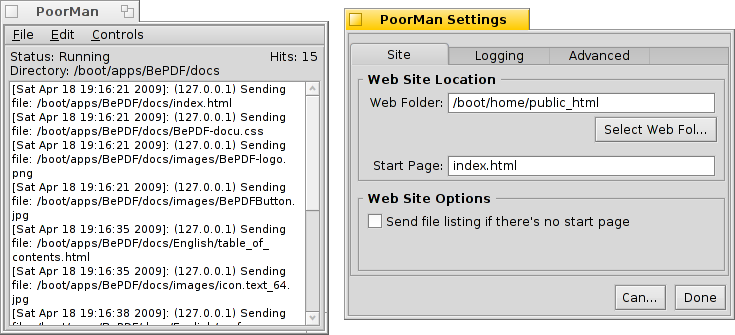
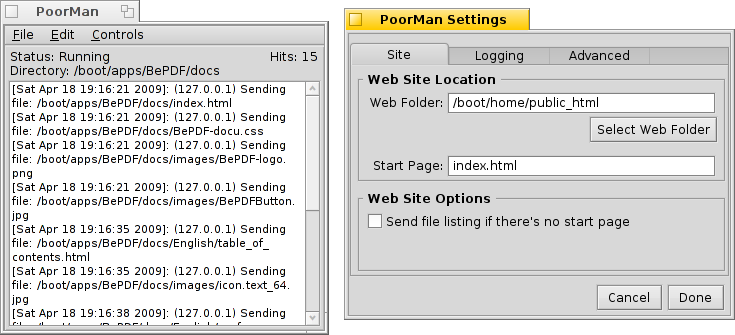
* Updated poorman screenshot with un-trunkated button.  * Small addition to DriveSetup.
+alphabranch

git-svn-id: file:///srv/svn/repos/haiku/haiku/trunk@32950 a95241bf-73f2-0310-859d-f6bbb57e9c96

diff --git a/docs/userguide/en/applications/drivesetup.html b/docs/userguide/en/applications/drivesetup.html
@@ -46,19 +46,23 @@ width="64" height="64" />DriveSetup</h1>
 <p><br/></p>
 <p>DriveSetup is a tool to create, delete and initialize partitions. At this time it can't resize or move existing partitions, so that you'll either need an unpartitioned volume (perhaps an external USB drive or another harddisk) or do the initial setup with a tool like the <a href="http://gparted.sourceforge.net/livecd.php">GParted LiveCD</a> to provide the space for another partition.</p>
 <img src="../images/apps-images/drivesetup.png" alt="drivesetup.png" />
-<p>At the top is a graphical representation of all partitions inside the device chosen in the list below it. Besides a maximum of 4 primary partitions, each of those can contain a number of extended/logical partitions. You may have to expand such a list with the +/- widget that appears in that case in front of the device to see the details of every logical partition.</p>
+<p>At the top is a graphical representation of all partitions inside the device chosen in the list below it. Besides a maximum of 4 primary partitions, each of those can contain a number of extended/logical partitions. You may have to expand such a list with the +/- widget that appears in that case in front of that device to see the details of every logical partition.</p>
 <p>You can select a partition from the list and mount and unmount them with the commands in the <span class="menu">Partition</span> menu or by pressing <span class="key">ALT</span>&#160;<span class="key">M</span> or <span class="key">ALT</span>&#160;<span class="key">U</span>.</p>
 <p>You can also completely delete a partition with <span class="menu">Partition|Delete</span>.<br />
 Which brings us to this:</p>
-<div class="box-stop">Dealing with creating, deleting or initializing partitions is very dangerous business. Always check twice to be sure you're working with the right one and always keep an up-to-date backup of your data in case something goes wrong!</div>
+<div class="box-stop">Dealing with creating/deleting/initializing partitions is very dangerous business. Always check twice to be sure you're working with the right one and always keep an up-to-date backup of your data in case something goes wrong!</div>
 <h1>
-<a href="#logo"><img src="../../images/up.png" align="right" alt="index" border="0" class="noprint" /></a>Creating a new partition</h1>
+<a href="#logo"><img src="../../images/up.png" align="right" alt="index" border="0" class="noprint" /></a>
+<a id="creating" name="creating">Creating a new partition</a></h1>
+<div class="box-info">If you plan to use the entire drive as one partition, e.g. a USB stick or a Compact Flash card, you can skip the creation of a partition and proceed right to <a href="#initializing">Initializing</a>.</div>
 <p>When you found unformatted space on a drive, like the above <tt>&lt;empty&gt;</tt>, you can create a new partition in this space with <span class="menu">Partition|Create...</span>(<span class="key">ALT</span>&#160;<span class="key">C</span>).</p>
 <img src="../images/apps-images/drivesetup-create.png" alt="drivesetup-create.png" />
 <p>You're prompted with this dialog that lets you adjust the partition size and type. Choose <span class="menu">Be File System</span> if you want to use the partition for an Haiku installation or if you want to use all the interesting Haiku features with it, like attributes and queries. Note, that other operating systems might not be able to access such a partition.</p>
+<p>If you have created a primary partition instead of just another extended/logical partition within one, the above dialog also displays an <span class="menu">Active Partition</span> checkbox. You'll have to check that, if you'll use that partition to boot a Haiku installation.</p>
 <p>Before you can use, or even mount the newly created partition, it has to be initialized with a filesystem.</p>
 <h1>
-<a href="#logo"><img src="../../images/up.png" align="right" alt="index" border="0" class="noprint" /></a>Initializing a partition</h1>
+<a href="#logo"><img src="../../images/up.png" align="right" alt="index" border="0" class="noprint" /></a>
+<a id="initializing" name="initializing">Initializing a partition</a></h1>
 <p>Only unmounted partitions can be initialized by using the <span class="menu">Partition|Initialize</span> menu.</p>
 <img src="../images/apps-images/drivesetup-initialize.png" alt="drivesetup-initialize.png" />
 <p>Here you set the name for the partition and it's blocksize. 2048 bytes per block are recommended, but you can choose larger or smaller sizes if you have these very specific needs.</p>
